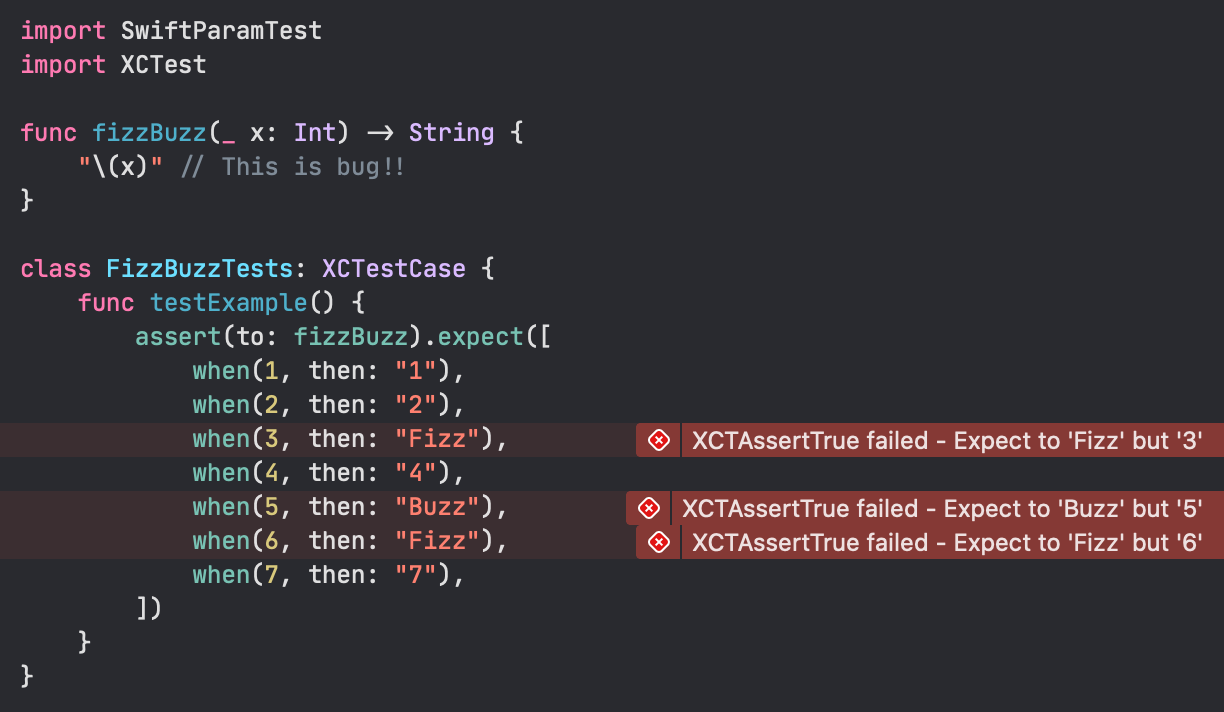
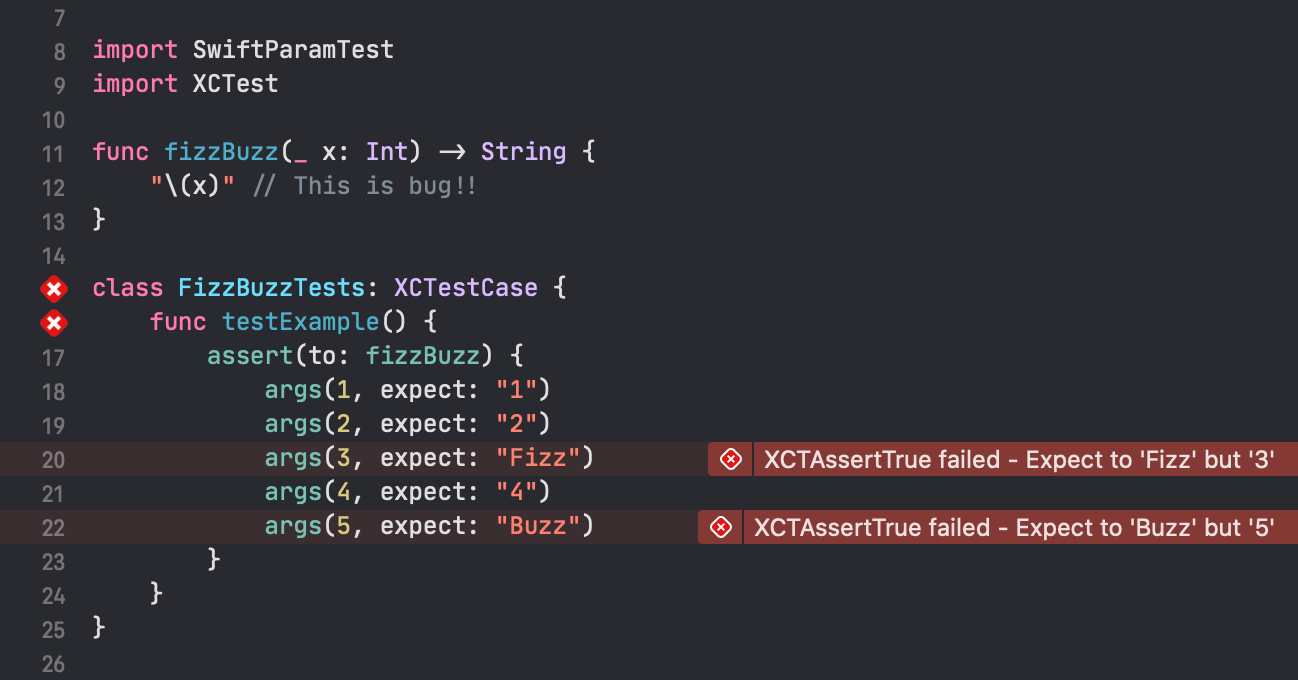
update: README and screenshots

diff --git a/README.md b/README.md
@@ -11,54 +11,124 @@ Parameterized-test for Swift. (with XCTest)
 
 ![Screenshot](https://raw.githubusercontent.com/YusukeHosonuma/SwiftParamTest/master/screenshot.png)
 
+## Code Style
+
+SwiftParamTest supports two way of code-style dependent on Swift version.
+
+### Function builders API (recommended)
+
+I recomend this when you use Swift 5.1 or later (because this API use Function builders).
+
+```swift
+assert(to: fizzBuzz) {
+    args(1, expect: "1")
+    args(2, expect: "2")
+    args(3, expect: "Fizz")
+    args(4, expect: "4")
+    args(5, expect: "Buzz")
+    ...
+}
+```
+
+### Basic API
+
+You can use following when you use under Swift 5.1.
+
+```swift
+assert(to: fizzBuzz, expect: [
+    args(1, expect: "1"),
+    args(2, expect: "2"),
+    args(3, expect: "Fizz"),
+    args(4, expect: "4"),
+    args(5, expect: "Buzz"),
+    ...
+}
+```
+
+## Operator based API
+
+You can use the operator `==>` API that like following:
+
+```swift
+assert(to: fizzBuzz) {
+    expect(1 ==> "1")
+    expect(2 ==> "2")
+    expect(3 ==> "Fizz")
+    expect(4 ==> "4")
+    expect(5 ==> "Buzz")
+    ...
+}
+```
+
 ## Example
 
 ```swift
-/// Test for single argument function
-func testFizzBuzz() {
-    assert(to: fizzBuzz).expect([
-        when(1, then: "1"),
-        when(2, then: "2"),
-        when(3, then: "Fizz"),
-        when(4, then: "4"),
-        when(5, then: "Buzz"),
-        ...
-    ])
+import SwiftParamTest
+import XCTest
+
+///
+/// Test to two argument function
+///
+func testIndent() {s
+    assert(to: indent) {
+        // basic
+        args(("Hello", 0), expect: "Hello")
+        args(("Hello", 2), expect: "  Hello")
+        args(("Hello", 4), expect: "    Hello")
+
+        // operator
+        expect(("Hello", 0) ==> "Hello")
+        expect(("Hello", 2) ==> "  Hello")
+        expect(("Hello", 4) ==> "    Hello")
+    }
 }
 
-/// Test for two argument function
-func testIndent() {
-    assert(to: indent).expect([
-        when(("Hello", 0), then: "Hello"),
-        when(("Hello", 2), then: "  Hello"),
-        when(("Hello", 4), then: "    Hello"),
-    ])
-}
-
+///
 /// Test for operator
+///
 func testOperator() {
-    assert(to: +).expect([
-        when((1, 1), then: 2),
-        when((1, 2), then: 3),
-        when((2, 2), then: 4),
-    ])
+    assert(to: +) {
+        // basic
+        args((1, 1), expect: 2)
+        args((1, 2), expect: 3)
+        args((2, 2), expect: 4)
+
+        // operator
+        expect((1, 1) ==> 2)
+        expect((1, 2) ==> 3)
+        expect((2, 2) ==> 4)
+    }
 }
 
+///
 /// Test for method of object
+///
 func testObject() {
-    let calc = Calculator(initialValue: 10)
+        let calc = Calculator(initialValue: 10)
 
-    assert(to: calc.add).expect([
-        when(1, then: 11),
-        when(2, then: 12),
-        when(3, then: 13),
-    ])
+        assert(to: calc.add) {
+            // basic
+            args(1, expect: 11)
+            args(2, expect: 12)
+            args(3, expect: 13)
 
-    assert(to: calc.subtraction).expect([
-        when(1, then: 9),
-        when(2, then: 8),
-        when(3, then: 7),
-    ])
+            // operator
+            expect(1 ==> 11)
+            expect(2 ==> 12)
+            expect(3 ==> 13)
+        }
+
+        assert(to: calc.subtraction) {
+            // basic
+            args(1, expect: 9)
+            args(2, expect: 8)
+            args(3, expect: 7)
+
+            // operator
+            expect(1 ==> 9)
+            expect(2 ==> 8)
+            expect(3 ==> 7)
+        }
 }
 ```
 
@@ -69,8 +139,8 @@ SwiftParamTest use `XCTAssertEqual()` and own error message by default.
 But you can use custom assertion like follows.
 
 ```swift
-// original assertion
-func originalAssert<T: Equatable>(_ actual: T, _ expected: T, file: StaticString, line: UInt) {
+// custom assertion
+func customAssert<T: Equatable>(_ actual: T, _ expected: T, file: StaticString, line: UInt) {
     let message = """
 
     ----
@@ -82,8 +152,8 @@ func originalAssert<T: Equatable>(_ actual: T, _ expected: T, file: StaticString
 }
 
 // passed by `with` arguments
-assert(to: fizzBuzz, with: originalAssert).expect([
-    when(1, then: "Fizz"),
+assert(to: fizzBuzz, with: customAssertion) {
+    args(1, expect: "Fizz")
     // =>
     //
     // XCTAssertTrue failed -
